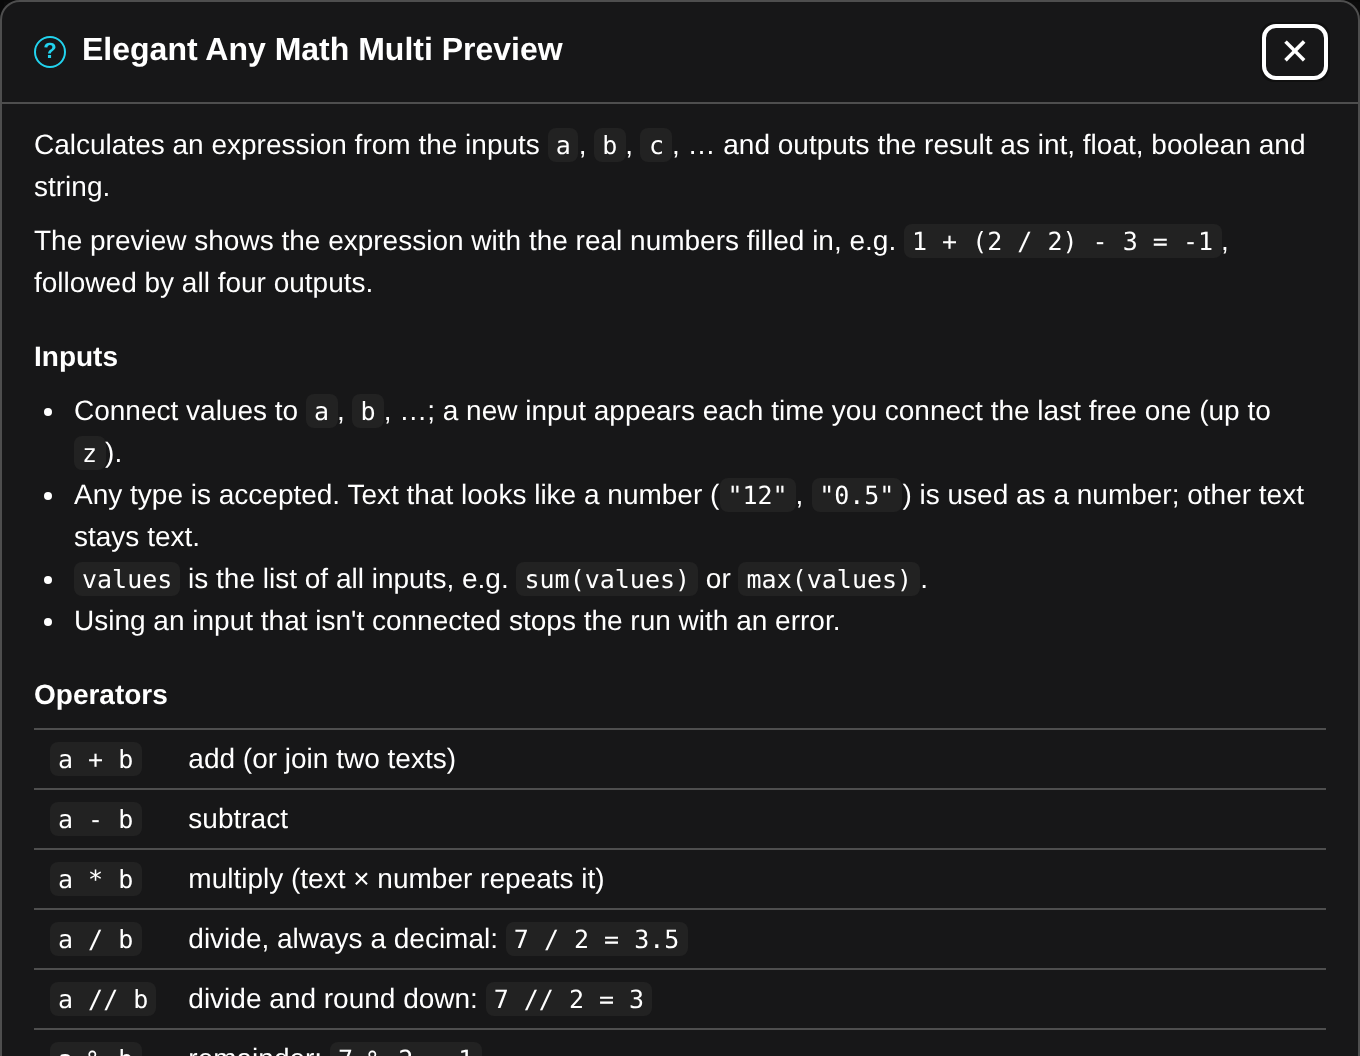
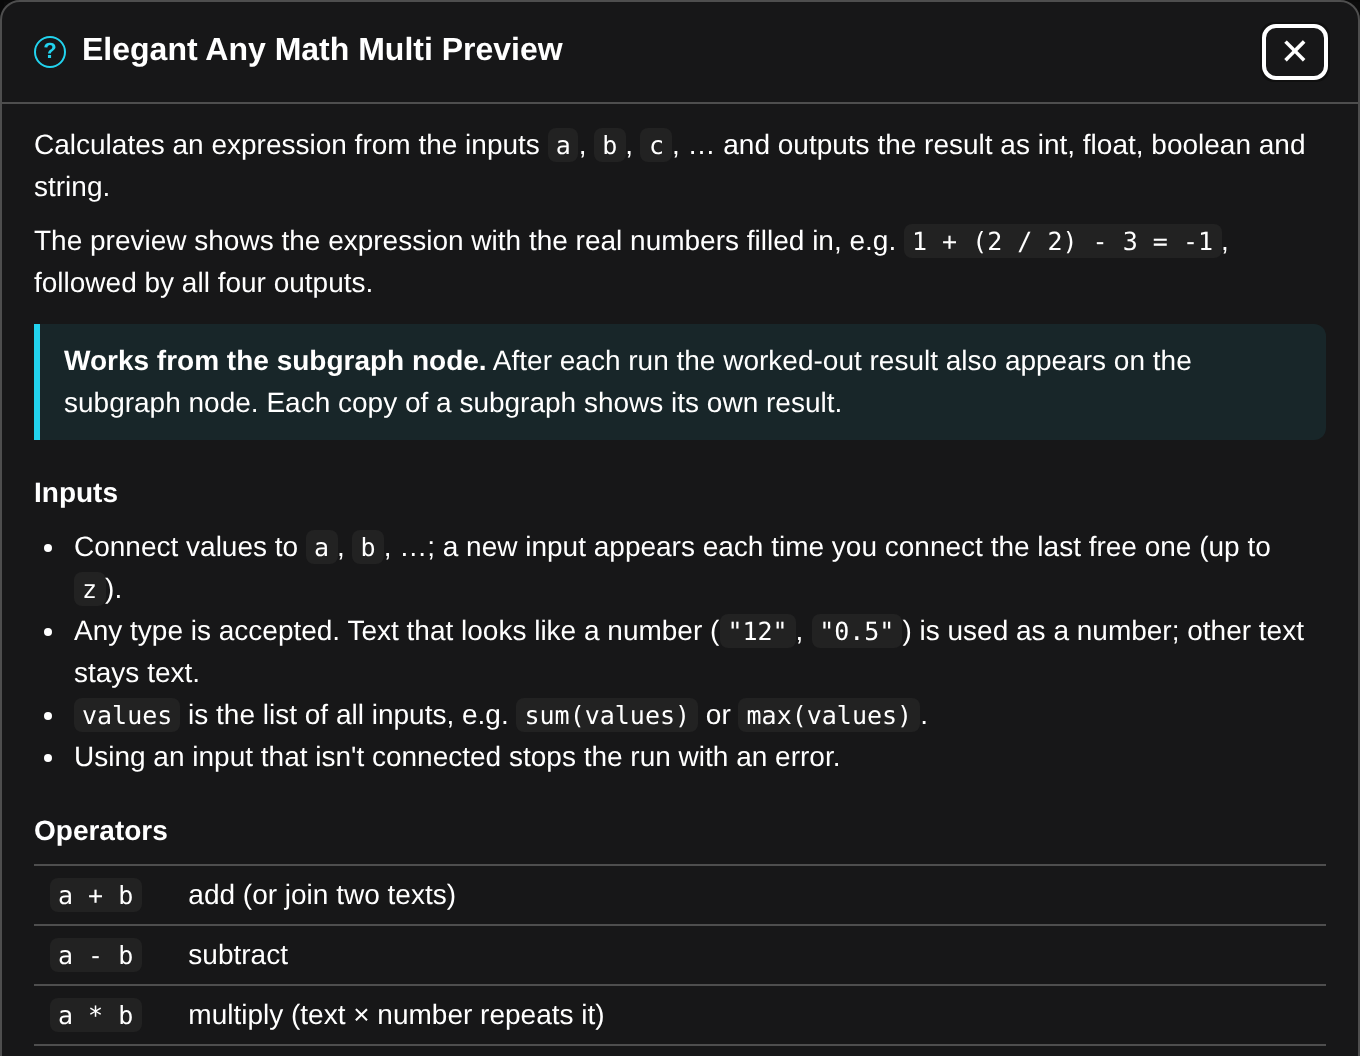
Lead with subgraph support
- README opens with a "Built for subgraphs" section and a screenshot of
  one subgraph node carrying the seed buttons, the resolution result and
  the math preview; the node table lists what each node shows on the
  subgraph node, and every node section says how it works in a subgraph
- Help dialogs start with a highlighted "Works from the subgraph node"
  note for every node
- Registry description and changelog lead with it too

Claude-Session: https://claude.ai/code/session_01A5ecSU7AkhoBm7qrvCRw9D

Changed region(s): [[0.0, 0.3125, 0.9574, 1.0], [0.6794, 0.5938, 0.9574, 0.625], [0.6176, 0.5938, 0.6485, 0.625]]

diff --git a/web/js/help.js b/web/js/help.js
@@ -9,6 +9,7 @@ const HELP = {
     title: "Elegant Seed",
     html: `
 <p>A seed you can keep fixed or have regenerated on every run.</p>
+<p class="elegant-help-subgraph"><b>Works from the subgraph node.</b> Inside a subgraph, <code>seed</code> is promoted automatically and the three buttons appear on the subgraph node, acting on its own seed. Promote <code>mode</code> too to get the switch there. Each copy of a subgraph keeps its own seed.</p>
 <h3>Controls</h3>
 <table>
 <tr><td><b>mode</b></td><td><code>random</code>: a new seed for every run. <code>fixed</code>: the seed in the field is always used.</td></tr>
@@ -25,14 +26,14 @@ const HELP = {
 </ul>
 <h3>Outputs</h3>
 <p><code>seed</code> (INT) for samplers, <code>seed_text</code> (STRING) for filenames or prompts.</p>
-<h3>Subgraphs</h3>
-<p>When <code>seed</code> (and optionally <code>mode</code>) is promoted, the buttons also appear on the subgraph node. Each copy of a subgraph keeps its own seed.</p>`,
+`,
   },
 
   [NODE_IDS.resolutionSelector]: {
     title: "Elegant Resolution Selector",
     html: `
 <p>Width and height for an aspect ratio, keeping about the same number of pixels as a square of <b>base</b> × <b>base</b>.</p>
+<p class="elegant-help-subgraph"><b>Works from the subgraph node.</b> Promote any of its widgets and the <b>result</b> field appears on the subgraph node, following the promoted values live.</p>
 <h3>Controls</h3>
 <table>
 <tr><td><b>aspect_ratio</b></td><td>1:1, 5:4, 9:7, 4:3, 3:2, 16:9, 21:9. In portrait they show flipped (2:3, 9:16, …).</td></tr>
@@ -56,6 +57,7 @@ const HELP = {
     title: "Elegant Any to String Preview",
     html: `
 <p>Turns any value into text, shows it, and outputs it as a <code>string</code>.</p>
+<p class="elegant-help-subgraph"><b>Works from the subgraph node.</b> After each run the text also appears on the subgraph node, so you can check a value without opening it. Each copy of a subgraph shows its own value.</p>
 <h3>Conversion</h3>
 <ul>
 <li>Text stays as it is.</li>
@@ -64,8 +66,6 @@ const HELP = {
 <li>Anything else (images, latents, models, …) is printed, with large tensors shortened.</li>
 </ul>
 <p>The box is plain text (no Markdown); you can select and copy from it.</p>
-<h3>Subgraphs</h3>
-<p>Inside a subgraph, the text also appears on the subgraph node after a run, so you don't have to open it. Each copy of a subgraph shows its own value.</p>
 <p>The text isn't saved in the workflow; run again after loading.</p>`,
   },
 
@@ -73,12 +73,13 @@ const HELP = {
     title: "Elegant Any to String Multi Preview",
     html: `
 <p>Turns several values into text and joins them with a delimiter.</p>
+<p class="elegant-help-subgraph"><b>Works from the subgraph node.</b> After each run the joined text also appears on the subgraph node. Each copy of a subgraph shows its own value.</p>
 <h3>Inputs</h3>
 <table>
 <tr><td><b>source_1, source_2, …</b></td><td>Connect values here. A new input appears each time you connect the last free one (up to 20). Disconnect one and the gap closes.</td></tr>
 <tr><td><b>delimiter</b></td><td>Put between the values. <code>\\n</code> = new line (default), <code>\\t</code> = tab, <code>\\\\</code> = backslash. Anything else is used as typed, e.g. <code>, </code> or <code> | </code>.</td></tr>
 </table>
-<p>Each value is converted like in <b>Elegant Any to String Preview</b>. The joined text is shown and output as <code>string</code>, also on subgraph nodes.</p>`,
+<p>Each value is converted like in <b>Elegant Any to String Preview</b>. The joined text is shown and output as <code>string</code>.</p>`,
   },
 
   [NODE_IDS.anyMathMultiPreview]: {
@@ -86,6 +87,7 @@ const HELP = {
     html: `
 <p>Calculates an expression from the inputs <code>a</code>, <code>b</code>, <code>c</code>, … and outputs the result as int, float, boolean and string.</p>
 <p>The preview shows the expression with the real numbers filled in, e.g. <code>1 + (2 / 2) - 3 = -1</code>, followed by all four outputs.</p>
+<p class="elegant-help-subgraph"><b>Works from the subgraph node.</b> After each run the worked-out result also appears on the subgraph node. Each copy of a subgraph shows its own result.</p>
 
 <h3>Inputs</h3>
 <ul>
@@ -181,6 +183,8 @@ const STYLE = `
 .elegant-help header button:hover { background: var(--comfy-input-bg, #333); }
 .elegant-help .body { padding: 4px 16px 16px; overflow: auto; }
 .elegant-help h3 { margin: 16px 0 6px; font-size: 14px; }
+.elegant-help .elegant-help-subgraph { margin: 10px 0; padding: 8px 12px; border-left: 3px solid ${HELP_COLOR};
+  background: rgba(34, 211, 238, 0.08); border-radius: 0 6px 6px 0; }
 .elegant-help p, .elegant-help ul { margin: 6px 0; }
 .elegant-help ul { padding-left: 20px; }
 .elegant-help table { border-collapse: collapse; width: 100%; margin: 6px 0; }

diff --git a/README.md b/README.md
@@ -5,21 +5,46 @@
 <h1 align="center">Elegant Nodes for ComfyUI</h1>
 
 <p align="center">
-  Small, tidy utility nodes that also work inside subgraphs.
+  Small, tidy utility nodes <b>built to work inside subgraphs</b>.
   <br>
   <a href="https://github.com/wipeer/comfyui-elegant-nodes/actions/workflows/tests.yml"><img src="https://github.com/wipeer/comfyui-elegant-nodes/actions/workflows/tests.yml/badge.svg" alt="Tests"></a>
   <a href="LICENSE"><img src="https://img.shields.io/badge/license-MIT-blue.svg" alt="MIT License"></a>
 </p>
 
+## Built for subgraphs
+
+<img src="docs/images/subgraph.png" width="360" align="right" alt="One subgraph node with the seed buttons, the resolution result and the math preview">
+
+Subgraphs are great for packing a workflow into one tidy node, but buttons, live results and
+previews usually stay hidden inside, so you keep opening the subgraph to use or check them.
+ComfyUI's own Preview as Text, for example, shows nothing on the subgraph node.
+
+**Every Elegant node keeps working from the subgraph node.** The node on the right is a
+subgraph holding an Elegant Seed, a Resolution Selector and a Math preview, used without
+opening it:
+
+- **Buttons:** 🎲 Random, ♻ Last seed → fixed and 🎲 Random → fixed act on the subgraph
+  node's own seed.
+- **Live results:** the resolution result updates as you change the promoted widgets.
+- **Previews:** text and math results appear on the subgraph node after every run.
+- **Every copy** of a subgraph keeps its own seed and shows its own values.
+
+Nothing to set up: promote the widgets you want (ComfyUI promotes `seed` automatically), and
+the rest follows. Demote them and it goes away.
+
+<br clear="right">
+
+## The nodes
+
 ![Elegant Nodes overview](docs/images/overview.png)
 
-| Node | What it does |
-|------|--------------|
-| [**Elegant Seed**](#elegant-seed) | A seed with a random/fixed switch and buttons to reuse or re-roll it. |
-| [**Elegant Resolution Selector**](#elegant-resolution-selector) | Width and height from an aspect ratio, keeping the pixel count steady. |
-| [**Elegant Any to String Preview**](#elegant-any-to-string-preview) | Any value as plain text, shown on the node. |
-| [**Elegant Any to String Multi Preview**](#elegant-any-to-string-multi-preview) | Several values as text, joined with a delimiter. |
-| [**Elegant Any Math Multi Preview**](#elegant-any-math-multi-preview) | A math expression over any number of inputs, with a worked-out preview. |
+| Node | What it does | On the subgraph node |
+|------|--------------|----------------------|
+| [**Elegant Seed**](#elegant-seed) | A seed with a random/fixed switch and buttons to reuse or re-roll it. | Seed buttons, per copy |
+| [**Elegant Resolution Selector**](#elegant-resolution-selector) | Width and height from an aspect ratio, keeping the pixel count steady. | Live result |
+| [**Elegant Any to String Preview**](#elegant-any-to-string-preview) | Any value as plain text. | Text preview |
+| [**Elegant Any to String Multi Preview**](#elegant-any-to-string-multi-preview) | Several values as text, joined with a delimiter. | Text preview |
+| [**Elegant Any Math Multi Preview**](#elegant-any-math-multi-preview) | A math expression over any number of inputs, with a worked-out preview. | Worked-out result |
 
 All nodes are in the **utilities → elegant** category. Click the cyan **?** in a node's title
 for detailed help on that node.
@@ -48,7 +73,7 @@ Restart ComfyUI and refresh the browser.
 inputs). The only Python dependency is [simpleeval](https://github.com/danthedeckie/simpleeval),
 which ComfyUI already installs.
 
-## Nodes
+## Node details
 
 ### Elegant Seed
 
@@ -75,6 +100,9 @@ The last seed is saved with the workflow. In a batch, every run gets its own see
 one is remembered. Random seeds go up to 2⁵³ − 1, the largest number the browser handles
 exactly (like ComfyUI's own randomize).
 
+**In a subgraph:** `seed` is promoted automatically and the three buttons appear on the subgraph
+node. Promote `mode` too to get the switch there; otherwise the switch inside is used.
+
 ### Elegant Resolution Selector
 
 | Control | What it does |
@@ -91,6 +119,9 @@ The size is `width = base × √ratio` and `height = base ÷ √ratio`, each rou
 and round to 16: 1:1 → 1024 × 1024, 4:3 → 1184 × 880, 3:2 → 1248 × 832, 16:9 → 1360 × 768,
 21:9 → 1568 × 672.
 
+**In a subgraph:** promote any of its widgets and the result field appears on the subgraph node,
+following the promoted values live.
+
 ### Elegant Any to String Preview
 
 Turns any value into text, shows it in a plain-text box you can select and copy, and outputs it
@@ -98,6 +129,9 @@ as `string`. Uses the same conversion as ComfyUI's
 [Preview as Text](https://github.com/Comfy-Org/ComfyUI/blob/master/comfy_extras/nodes_preview_any.py),
 without the Markdown mode: text stays as is, numbers and booleans become their value, lists and
 dictionaries become indented JSON, and anything else (tensors, latents, …) is printed.
+
+**In a subgraph:** after each run the text also appears on the subgraph node, so you can check a
+value without opening it. Text isn't saved in the workflow; run again after loading.
 
 ### Elegant Any to String Multi Preview
 
@@ -107,6 +141,8 @@ The same for several values, joined with a delimiter.
   to 20). Disconnect one and the gap closes.
 - `delimiter`: default `\n` (new line). `\t` is a tab and `\\` a backslash; anything else is
   used as typed, e.g. `, ` or ` | `.
+
+**In a subgraph:** the joined text appears on the subgraph node, like the single preview.
 
 ### Elegant Any Math Multi Preview
 
@@ -137,22 +173,7 @@ Expressions are evaluated with [simpleeval](https://github.com/danthedeckie/simp
 ComfyUI's own Math Expression node: only math, no Python code, and huge powers are refused.
 Errors such as division by zero or an unconnected input stop the run with a message.
 
-## Subgraphs
-
-<img src="docs/images/subgraph.png" width="320" align="right" alt="Elegant Seed and a preview inside a subgraph">
-
-The nodes keep working when you put them inside a subgraph:
-
-- **Elegant Seed:** promote `seed` (done automatically) and optionally `mode`, and the buttons
-  appear on the subgraph node too. Each copy of a subgraph keeps its own seed.
-- **Elegant Resolution Selector:** promote any of its widgets and the result line appears on
-  the subgraph node.
-- **Preview nodes:** after a run, their text also shows on the subgraph node, so you don't have
-  to open it. Each copy shows its own value.
-
-Preview text isn't saved in the workflow; run again after loading.
-
-<br clear="right">
+**In a subgraph:** the worked-out result appears on the subgraph node after each run.
 
 ## Help
 

diff --git a/CHANGELOG.md b/CHANGELOG.md
@@ -2,7 +2,8 @@
 
 ## 1.0.0
 
-First public release.
+First public release. Every node works from the subgraph node: buttons, live results and
+previews show there, per copy of the subgraph.
 
 - **Elegant Seed**: random/fixed switch, Random, Last seed → fixed and Random → fixed buttons,
   follows the global "Widget control mode" (before/after), remembers the last seed per node.
@@ -12,7 +13,6 @@ First public release.
   with a configurable delimiter.
 - **Elegant Any Math Multi Preview**: safe math expressions over auto-growing inputs, with int,
   float, boolean and string outputs and a worked-out preview.
-- All nodes work inside subgraphs: buttons, results and previews also show on the subgraph node.
 - A cyan **?** in each node's title opens detailed help.
 
 **Breaking:** node ids renamed from earlier development versions: `ElegantResolution` →
